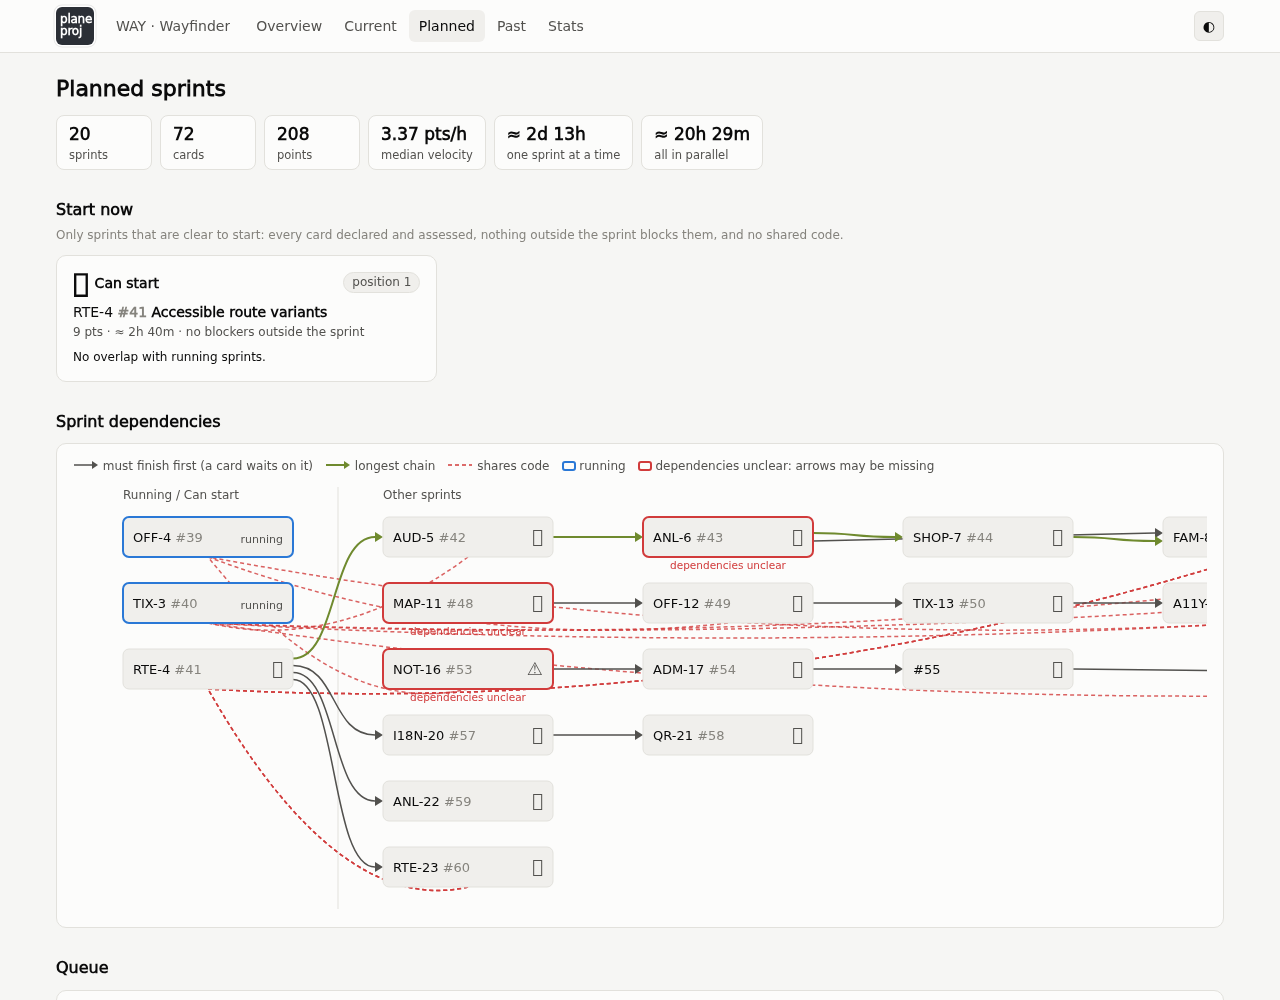
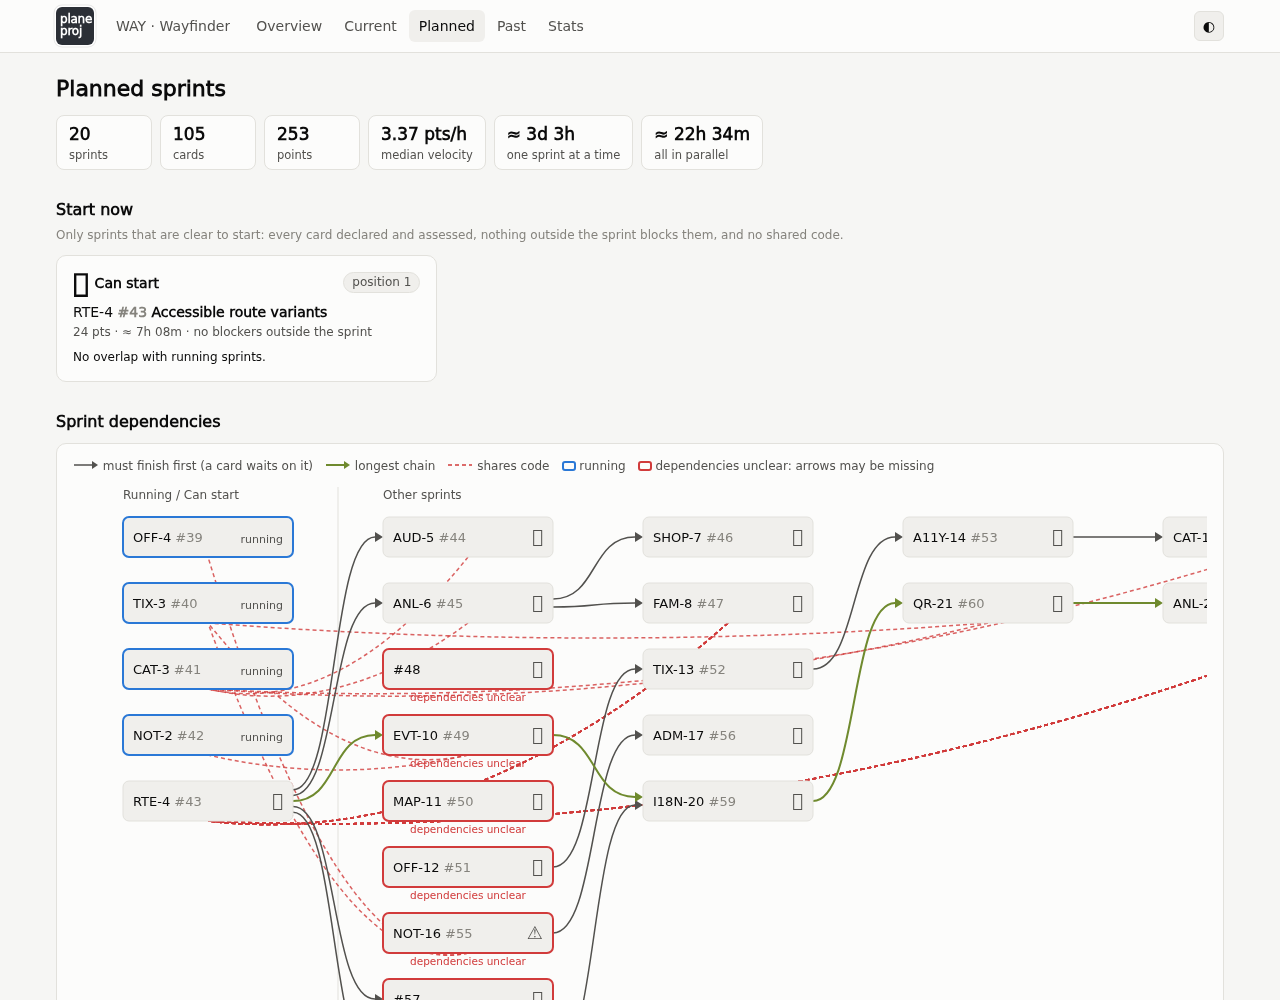
feat(demo): four sprints run at once, so In flight scrolls
The Overview's In flight box shows three running sprints side by side
and scrolls for more; the demo ran only two, so the scroll was never
seen. It now runs four (OFF-4, TIX-3, CAT-3 and NOT-2), each with its
own progress, elapsed time, open timer and declared files, replacing
the offset-based progress with a per-sprint table. The planned queue
moves up by two sprint numbers.

Verification: pytest (the demo test now expects four running sprints)
and ruff check pass. In the demo the In flight box holds four cards and
scrolls sideways, the Current page has four tabs, and the planned queue
still shows all four readiness states. Overview, Current and Planned
screenshots refreshed.

Claude-Session: https://claude.ai/code/session_01FgdVYP9r5FsBvYhXWxvHnT

diff --git a/demo/run_demo.py b/demo/run_demo.py
@@ -81,7 +81,46 @@ CURRENT = [
         "Member pass check-in",
         "Members scan their pass at the door and see today's timed slots.",
     ),
+    (
+        "CAT-3",
+        "High-resolution exhibit images",
+        "Every exhibit page shows zoomable images that load in under a second.",
+    ),
+    (
+        "NOT-2",
+        "Text message visit reminders",
+        "Visitors who opt in get a text the morning of their booked visit.",
+    ),
 ]
+# How far each running sprint has got: card states, points, hours since it
+# started and any timer still running. Four run at once, more than the
+# Overview shows side by side, so its In flight row scrolls.
+CURRENT_PROGRESS = {
+    "OFF-4": (
+        ["Done", "Done", "Verifying", "In Progress", "Todo"],
+        [3, 2, 3, 2, 3],
+        2.6,
+        {"coding": 18.0},
+    ),
+    "TIX-3": (
+        ["Done", "In Progress", "In Progress", "Todo", "Todo"],
+        [2, 3, 2, 2, 3],
+        1.5,
+        {},
+    ),
+    "CAT-3": (
+        ["Done", "Done", "Done", "Verifying", "In Progress"],
+        [2, 2, 3, 3, 1],
+        4.2,
+        {"blocking-run": 9.0},
+    ),
+    "NOT-2": (
+        ["In Progress", "Todo", "Todo", "Todo", "Todo"],
+        [3, 2, 2, 1, 2],
+        0.6,
+        {"coding": 31.0},
+    ),
+}
 # Planned work at the scale of a busy real project: about twenty sprints of
 # one to eleven cards. Each sprint works in one area of an invented code
 # tree; some cards also touch shared files, which produces code overlap.
@@ -275,6 +314,20 @@ CARD_TITLES = {
         "Door staff override",
         "Check-in audit log",
     ],
+    "CAT-3": [
+        "Image tiling pipeline",
+        "Zoom viewer",
+        "Image cache budget",
+        "Alt text for every image",
+        "Image load time check",
+    ],
+    "NOT-2": [
+        "Reminder opt-in",
+        "SMS provider client",
+        "Morning send schedule",
+        "Unsubscribe by reply",
+        "Reminder delivery log",
+    ],
 }
 # Card links have nowhere real to go: the project is invented.
 CARD_URL = "#"
@@ -415,12 +468,7 @@ def current_sprints(rng, now):
     current, cards, ref = [], {}, 300
     for offset, (alias, title, goal) in enumerate(CURRENT):
         number = len(PAST) + 1 + offset
-        states = (
-            ["Done", "Done", "Verifying", "In Progress", "Todo"]
-            if offset == 0
-            else ["Done", "In Progress", "In Progress", "Todo", "Todo"]
-        )
-        points = [3, 2, 3, 2, 3] if offset == 0 else [2, 3, 2, 2, 3]
+        states, points, hours, open_timers = CURRENT_PROGRESS[alias]
         members = []
         for card_title, state, point in zip(
             CARD_TITLES[alias], states, points, strict=True
@@ -438,10 +486,9 @@ def current_sprints(rng, now):
                 }
             )
         cards[str(number)] = members
-        hours = 2.6 - offset * 1.1
         done = sum(c["points"] for c in members if c["state"] == "Done")
         record = timing(rng, len(members), hours, final=False)
-        record["open_timer_minutes"] = {"coding": 18.0} if offset == 0 else {}
+        record["open_timer_minutes"] = dict(open_timers)
         current.append(
             {
                 "sprint": number,
@@ -622,6 +669,20 @@ CURRENT_TOUCHES = {
         "src/tickets/slots.ts",
         "src/tickets/override.ts",
         "db/schema.sql",
+    ],
+    "CAT-3": [
+        "src/catalog/images.ts",
+        "src/catalog/viewer.tsx",
+        "src/catalog/cache.ts",
+        "src/i18n/strings.json",
+        "src/catalog/",
+    ],
+    "NOT-2": [
+        "src/notify/optin.ts",
+        "src/notify/sms.ts",
+        "src/notify/schedule.ts",
+        "src/notify/reply.ts",
+        "src/api/members.ts",
     ],
 }
 

diff --git a/tests/test_demo.py b/tests/test_demo.py
@@ -35,7 +35,8 @@ def test_build_writes_the_page_and_every_response_it_requests(tmp_path):
         assert body
     payload = json.loads((tmp_path / "api/sprints/index.html").read_text())
     assert payload["project"] == {"key": "WAY", "name": "Wayfinder"}
-    assert len(payload["listing"]["current"]) == 2
+    # More running sprints than the Overview shows side by side.
+    assert len(payload["listing"]["current"]) == 4
     readiness = json.loads((tmp_path / "api/readiness/index.html").read_text())
     assert readiness["summary"]["sprints"] == 20
     states = {row["state"] for row in readiness["queue"]}
